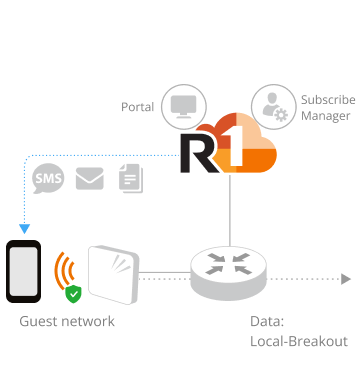
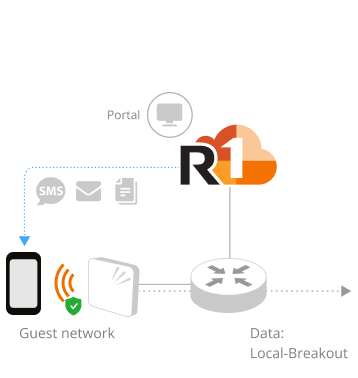
ACX-86291: Support Accounting service on CaptivePortal Guess Pass network

diff --git a/libs/rc/shared/components/src/NetworkForm/NetworkDiagram/NetworkDiagram.tsx b/libs/rc/shared/components/src/NetworkForm/NetworkDiagram/NetworkDiagram.tsx
@@ -35,8 +35,14 @@ import DpskAaaDiagram                  from '../assets/images/network-wizard-dia
 import DpskCloudpathProxyDiagram       from '../assets/images/network-wizard-diagrams/dpsk-cloudpath-proxy.png'
 import DpskCloudpathDiagram            from '../assets/images/network-wizard-diagrams/dpsk-cloudpath.png'
 import DpskDiagram                     from '../assets/images/network-wizard-diagrams/dpsk.png'
-import GuestPassWithOweDiagram         from '../assets/images/network-wizard-diagrams/guest-pass-owe.png'
-import GuestPassWithPskDiagram         from '../assets/images/network-wizard-diagrams/guest-pass-psk.png'
+import GuestPassAaaProxyDiagram        from '../assets/images/network-wizard-diagrams/guest-pass-aaa-proxy.png'
+import GuestPassAaaDiagram             from '../assets/images/network-wizard-diagrams/guest-pass-aaa.png'
+import GuestPassOweAaaProxyDiagram     from '../assets/images/network-wizard-diagrams/guest-pass-owe-aaa-proxy.png'
+import GuestPassOweAaaDiagram          from '../assets/images/network-wizard-diagrams/guest-pass-owe-aaa.png'
+import GuestPassOweDiagram             from '../assets/images/network-wizard-diagrams/guest-pass-owe.png'
+import GuestPassPskAaaProxyDiagram     from '../assets/images/network-wizard-diagrams/guest-pass-psk-aaa-proxy.png'
+import GuestPassPskAaaDiagram          from '../assets/images/network-wizard-diagrams/guest-pass-psk-aaa.png'
+import GuestPassPskDiagram             from '../assets/images/network-wizard-diagrams/guest-pass-psk.png'
 import GuestPassDiagram                from '../assets/images/network-wizard-diagrams/guest-pass.png'
 import HostApprovalWithOweDiagram      from '../assets/images/network-wizard-diagrams/host-approval-owe.png'
 import HostApprovalWithPskDiagram      from '../assets/images/network-wizard-diagrams/host-approval-psk.png'
@@ -287,8 +293,7 @@ function getCaptivePortalDiagram (props: CaptivePortalDiagramProps) {
     [GuestNetworkTypeEnum.SelfSignIn]: getSelfSignInDiagram(props),
     [GuestNetworkTypeEnum.HostApproval]: wisprWithPsk ? HostApprovalWithPskDiagram :
       (wisprWithOwe ? HostApprovalWithOweDiagram : HostApprovalDiagram),
-    [GuestNetworkTypeEnum.GuestPass]: wisprWithPsk ? GuestPassWithPskDiagram :
-      (wisprWithOwe ? GuestPassWithOweDiagram : GuestPassDiagram),
+    [GuestNetworkTypeEnum.GuestPass]: getGuestPassDiagram(props),
     [GuestNetworkTypeEnum.Cloudpath]: getCloudpathDiagram(wisprWithPsk, wisprWithOwe, props),
     [GuestNetworkTypeEnum.WISPr]: props.wisprWithAlwaysAccept ?
       (wisprWithPsk ? WISPrWithAlwaysAcceptPskDiagram :
@@ -310,6 +315,23 @@ interface CaptivePortalDiagramSet {
 }
 
 const captivePortalDiagramMapping: Record<string, CaptivePortalDiagramSet> = {
+  // --- GuestPass ---
+  GuestPassOWE: {
+    Diagram: GuestPassOweDiagram,
+    AaaProxyDiagram: GuestPassOweAaaProxyDiagram,
+    AaaDiagram: GuestPassOweAaaDiagram
+  },
+  GuestPassPSK: {
+    Diagram: GuestPassPskDiagram,
+    AaaProxyDiagram: GuestPassPskAaaProxyDiagram,
+    AaaDiagram: GuestPassPskAaaDiagram
+  },
+  GuestPass: {
+    Diagram: GuestPassDiagram,
+    AaaProxyDiagram: GuestPassAaaProxyDiagram,
+    AaaDiagram: GuestPassAaaDiagram
+  },
+
   // --- SelfSignIn ---
   SelfSignInOWE: {
     Diagram: SelfSignInOweDiagram,
@@ -357,6 +379,7 @@ function getCommonCaptivePortalDiagram (
 }
 
 const getSelfSignInDiagram = createCaptivePortalDiagramGenerator('SelfSignIn')
+const getGuestPassDiagram = createCaptivePortalDiagramGenerator('GuestPass')
 
 export function NetworkDiagram (props: NetworkDiagramProps) {
   const { $t } = useIntl()
@@ -400,6 +423,7 @@ export function NetworkDiagram (props: NetworkDiagramProps) {
 
       return cpProps.networkPortalType === GuestNetworkTypeEnum.Workflow ||
         cpProps.networkPortalType === GuestNetworkTypeEnum.HostApproval ||
+        cpProps.networkPortalType === GuestNetworkTypeEnum.GuestPass ||
         cpProps.networkPortalType === GuestNetworkTypeEnum.SelfSignIn
     }
 

diff --git a/libs/rc/shared/components/src/NetworkForm/NetworkDiagram/NetworkDiagram.spec.tsx b/libs/rc/shared/components/src/NetworkForm/NetworkDiagram/NetworkDiagram.spec.tsx
@@ -870,15 +870,20 @@ describe('NetworkDiagram', () => {
     })
     it('should render Captive portal (Guest Pass) diagram successfully', async () => {
       const portalType = GuestNetworkTypeEnum.GuestPass
-      const { asFragment } = render(
+      render(
         <Provider>
           <NetworkFormContext.Provider value={{
             editMode: false,
             cloneMode: false,
+            isRuckusAiMode: false,
             data: { type },
             setData: jest.fn()
           }}>
-            <NetworkDiagram networkPortalType={portalType} />
+            <NetworkDiagram
+              type={NetworkTypeEnum.CAPTIVEPORTAL}
+              networkPortalType={portalType}
+              networkSecurity={'NONE'}
+            />
           </NetworkFormContext.Provider>
         </Provider>, {
           route: {
@@ -887,20 +892,24 @@ describe('NetworkDiagram', () => {
         })
       const diagram = screen.getByRole('img') as HTMLImageElement
       expect(diagram.src).toContain('GuestPass')
-      expect(asFragment()).toMatchSnapshot()
     })
     it('should render Captive portal (Guest Pass with PSK) diagram successfully', async () => {
       const portalType = GuestNetworkTypeEnum.GuestPass
-      const { asFragment } = render(
+      render(
         <Provider>
           <NetworkFormContext.Provider value={{
             editMode: false,
             cloneMode: false,
+            isRuckusAiMode: false,
             data: { type },
             setData: jest.fn()
           }}>
-            <NetworkDiagram networkPortalType={portalType}
-              wlanSecurity={WlanSecurityEnum.WPA23Mixed} />
+            <NetworkDiagram
+              type={NetworkTypeEnum.CAPTIVEPORTAL}
+              networkPortalType={portalType}
+              networkSecurity={'PSK'}
+              enableAccountingService={true}
+            />
           </NetworkFormContext.Provider>
         </Provider>, {
           route: {
@@ -908,20 +917,26 @@ describe('NetworkDiagram', () => {
           }
         })
       const diagram = screen.getByRole('img') as HTMLImageElement
-      expect(diagram.src).toContain('GuestPassPsk')
-      expect(asFragment()).toMatchSnapshot()
+      expect(diagram.src).toContain('GuestPassPskAaa')
     })
     it('should render Captive portal (Guest Pass with OWE) diagram successfully', async () => {
       const portalType = GuestNetworkTypeEnum.GuestPass
-      const { asFragment } = render(
+      render(
         <Provider>
           <NetworkFormContext.Provider value={{
             editMode: false,
             cloneMode: false,
+            isRuckusAiMode: false,
             data: { type },
             setData: jest.fn()
           }}>
-            <NetworkDiagram networkPortalType={portalType} wlanSecurity={WlanSecurityEnum.OWE} />
+            <NetworkDiagram
+              type={NetworkTypeEnum.CAPTIVEPORTAL}
+              networkPortalType={portalType}
+              networkSecurity={'OWE'}
+              enableAccountingService={true}
+              enableAccountingProxy={true}
+            />
           </NetworkFormContext.Provider>
         </Provider>, {
           route: {
@@ -929,8 +944,7 @@ describe('NetworkDiagram', () => {
           }
         })
       const diagram = screen.getByRole('img') as HTMLImageElement
-      expect(diagram.src).toContain('GuestPassOwe')
-      expect(asFragment()).toMatchSnapshot()
+      expect(diagram.src).toContain('GuestPassOweAaaProxy')
     })
     it('should render Captive portal (WISPr) diagram successfully', async () => {
       const portalType = GuestNetworkTypeEnum.WISPr

diff --git a/libs/rc/shared/components/src/NetworkForm/CaptivePortal/GuestPassForm.tsx b/libs/rc/shared/components/src/NetworkForm/CaptivePortal/GuestPassForm.tsx
@@ -1,14 +1,17 @@
 import { useContext, useEffect } from 'react'
 
-import { Form }    from 'antd'
-import { useIntl } from 'react-intl'
+import { Form }     from 'antd'
+import { useWatch } from 'antd/lib/form/Form'
+import { useIntl }  from 'react-intl'
 
 import { GridCol, GridRow, StepsFormLegacy }                      from '@acx-ui/components'
+import { useIsSplitOn, Features }                                 from '@acx-ui/feature-toggle'
 import { GuestNetworkTypeEnum, NetworkSaveData, NetworkTypeEnum } from '@acx-ui/rc/utils'
 
 import { NetworkDiagram }          from '../NetworkDiagram/NetworkDiagram'
 import NetworkFormContext          from '../NetworkFormContext'
 import { NetworkMoreSettingsForm } from '../NetworkMoreSettings/NetworkMoreSettingsForm'
+import { AccountingServiceInput }  from '../SharedComponent'
 
 import { DhcpCheckbox }                          from './DhcpCheckbox'
 import { RedirectUrlInput }                      from './RedirectUrlInput'
@@ -26,11 +29,18 @@ export function GuestPassForm () {
   const intl = useIntl()
   const form = Form.useFormInstance()
 
+  const networkSecurity = useWatch('networkSecurity', form)
+  const enableAccountingProxy = useWatch('enableAccountingProxy', form)
+  const enableAccountingService = useWatch('enableAccountingService', form)
+
+  // eslint-disable-next-line max-len
+  const isSupportNetworkRadiusAccounting = useIsSplitOn(Features.WIFI_NETWORK_RADIUS_ACCOUNTING_TOGGLE)
+
   useEffect(()=>{
     if((editMode || cloneMode) && data){
       form.setFieldsValue({ ...data })
     }
-  }, [data])
+  }, [data?.id])
   return (<>
     <GridRow>
       <GridCol col={{ span: 10 }}>
@@ -41,11 +51,21 @@ export function GuestPassForm () {
         <BypassCaptiveNetworkAssistantCheckbox/>
         <WalledGardenTextArea
           enableDefaultWalledGarden={false} />
+        {isSupportNetworkRadiusAccounting &&
+          <AccountingServiceInput
+            isProxyModeConfigurable={true}
+          />
+        }
       </GridCol>
       <GridCol col={{ span: 14 }}>
-        <NetworkDiagram type={NetworkTypeEnum.CAPTIVEPORTAL}
+        <NetworkDiagram
+          type={NetworkTypeEnum.CAPTIVEPORTAL}
           networkPortalType={GuestNetworkTypeEnum.GuestPass}
-          wlanSecurity={data?.wlan?.wlanSecurity} />
+          wlanSecurity={data?.wlan?.wlanSecurity}
+          networkSecurity={networkSecurity}
+          enableAccountingService={enableAccountingService}
+          enableAccountingProxy={enableAccountingProxy}
+        />
       </GridCol>
     </GridRow>
     {!(editMode) && !(isRuckusAiMode) && <GridRow>

diff --git a/libs/rc/shared/components/src/NetworkForm/NetworkForm.tsx b/libs/rc/shared/components/src/NetworkForm/NetworkForm.tsx
@@ -723,6 +723,7 @@ export function NetworkForm (props:{
     if(
       saveState.guestPortal?.guestNetworkType !== GuestNetworkTypeEnum.Cloudpath &&
       saveState.guestPortal?.guestNetworkType !== GuestNetworkTypeEnum.Workflow &&
+      saveState.guestPortal?.guestNetworkType !== GuestNetworkTypeEnum.GuestPass &&
       saveState.guestPortal?.guestNetworkType !== GuestNetworkTypeEnum.SelfSignIn
     ){
       delete data.authRadius

diff --git a/libs/rc/shared/components/src/NetworkForm/utils.tsx b/libs/rc/shared/components/src/NetworkForm/utils.tsx
@@ -447,6 +447,7 @@ export function shouldSaveRadiusServerSettings (saveData: NetworkSaveData): bool
       return [
         GuestNetworkTypeEnum.Cloudpath,
         GuestNetworkTypeEnum.Workflow,
+        GuestNetworkTypeEnum.GuestPass,
         GuestNetworkTypeEnum.SelfSignIn
       ].includes(
         saveData.guestPortal?.guestNetworkType ?? GuestNetworkTypeEnum.ClickThrough

diff --git a/libs/rc/shared/components/src/NetworkForm/utils.spec.tsx b/libs/rc/shared/components/src/NetworkForm/utils.spec.tsx
@@ -812,7 +812,7 @@ describe('Network utils test', () => {
             guestNetworkType: GuestNetworkTypeEnum.GuestPass
           }
         }
-        expect(shouldSaveRadiusServerProfile(saveDataForOtherGuestType)).toBe(false)
+        expect(shouldSaveRadiusServerProfile(saveDataForOtherGuestType)).toBe(true)
       })
     })
 
